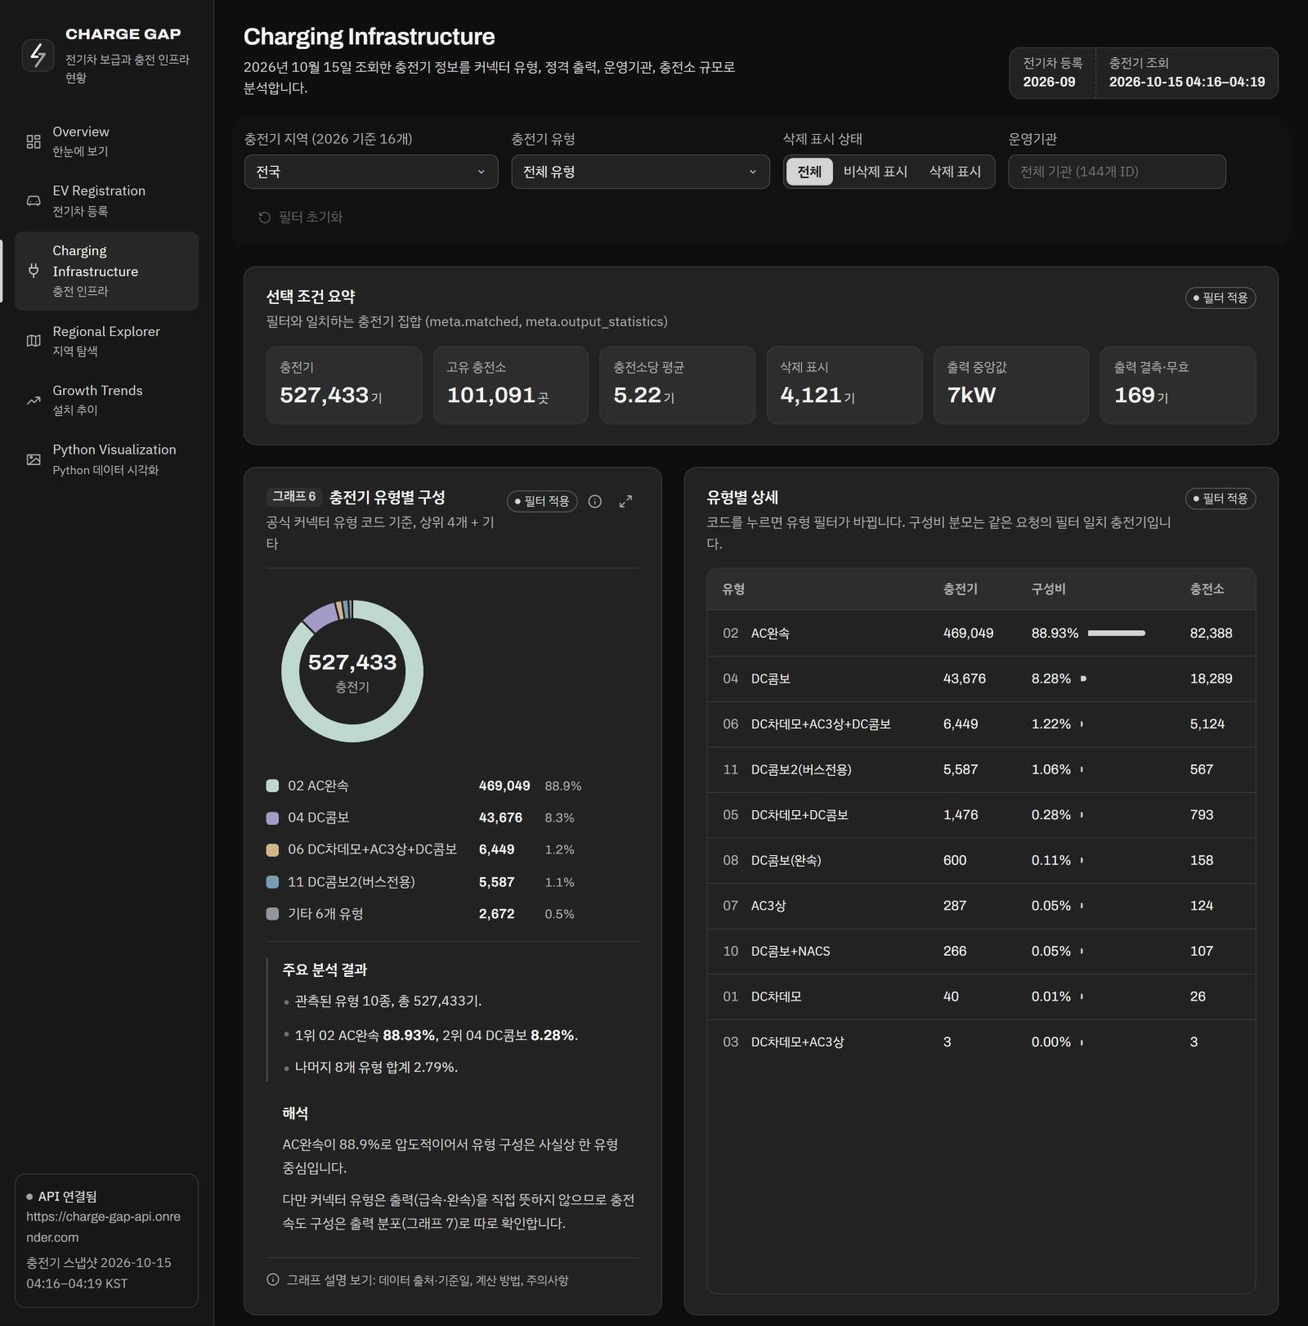
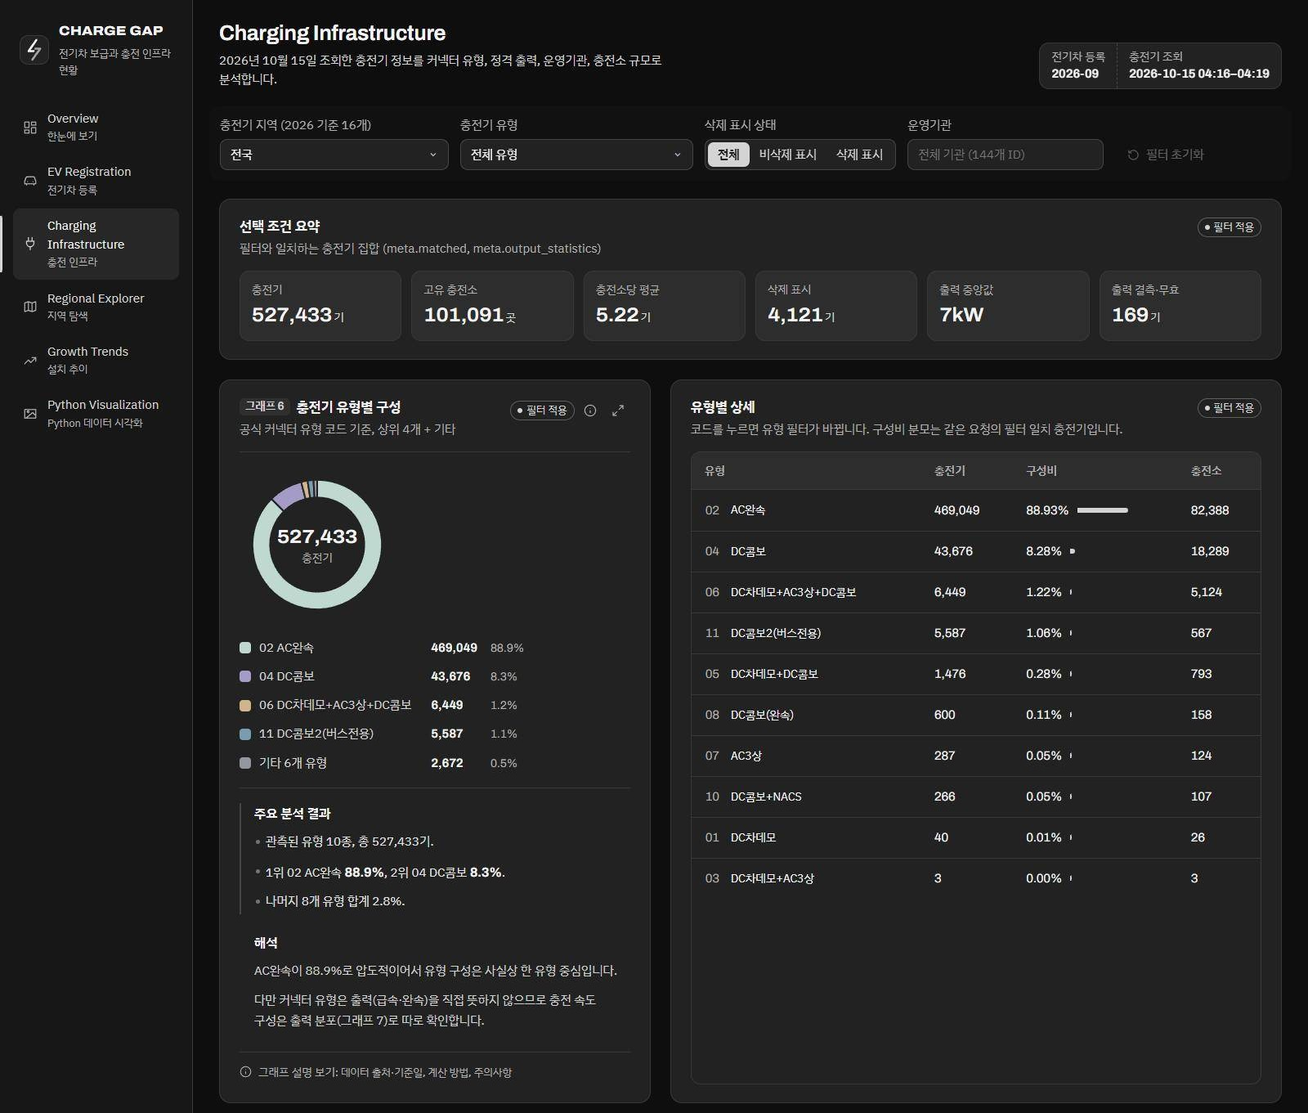
docs: update README and screenshots to the current site
- Restructure top: background, purpose, data collection and
  preprocessing, key visualization findings, dashboard features
- Mark the 164 preprocessing checks as a past record based on the
  2025-12 registration file; note no separate preprocessing record
  exists for the 2026-09 file and list the checks that cover it
- Add verification summary (164 / 47 / 13 / 170 / 321)
- Replace 8 screenshots with 2026-11-26 captures of the live site
  (graph 2 lollipop, graph 6 doughnut, PY01-PY09)

diff --git a/README.md b/README.md
@@ -11,29 +11,47 @@
 > Render 무료 플랜이라 한동안 접속이 없으면 서버가 절전 상태가 됩니다. 첫 접속 때 서버가 데이터를 내려받아 준비하는 동안 몇 분까지 걸릴 수 있으며, 그동안 화면에 대기 안내가 표시되고 준비되면 자동으로 다시 불러옵니다.
 
 <p align="center">
-  <img src="docs/images/overview.jpg" alt="Overview 화면: 전기차 등록 2026-09와 충전기 조회 2026-10-15 기준 시점 띠, 전기차 1,191,873대·충전기 527,433기·충전소 101,091곳·삭제 표시 4,121기 KPI 4개, 고출력 비중 지역 차이와 충전소당 충전기 수 관계 분석" width="100%">
+  <img src="docs/images/overview.jpg" alt="Overview 화면: 전기차 등록 2026-09와 충전기 조회 2026-10-15 기준 시점 띠, 전기차 1,191,873대·충전기 527,433기·충전소 101,091곳·삭제 표시 4,121기 KPI 4개, 주요 분석 발견(100kW 이상 비중 경북 14.65%·대구 4.69%, 충전소당 충전기 수와 고출력 비중의 관계 r = −0.90)" width="100%">
 </p>
-<p align="center"><sub>Overview · 기준 시점 띠, 핵심 KPI 4개, 주요 분석 발견 (운영 사이트, 2026-11-15 촬영)</sub></p>
+<p align="center"><sub>Overview · 기준 시점 띠, 핵심 KPI 4개, 주요 분석 발견 (운영 사이트, 2026-11-26 촬영)</sub></p>
 
 ## 목차
 
-[프로젝트 소개](#프로젝트-소개) · [핵심 수치와 기준일](#핵심-수치와-기준일) · [화면 둘러보기](#화면-둘러보기) · [주요 분석 기능](#주요-분석-기능) · [웹 그래프와 Python 그래프](#웹-그래프-10개와-python-그래프-10개) · [데이터](#데이터) · [기술 스택](#기술-스택) · [시스템 구조](#시스템-구조) · [실행 방법](#실행-방법) · [검증 결과](#검증-결과) · [배포 상태](#배포-상태) · [문서](#문서)
+[프로젝트 소개](#프로젝트-소개) · [데이터 수집 및 전처리](#데이터-수집-및-전처리) · [핵심 시각화 분석 결과](#핵심-시각화-분석-결과) · [화면 둘러보기](#화면-둘러보기) · [웹 대시보드 주요 기능](#웹-대시보드-주요-기능) · [웹 그래프와 Python 그래프](#웹-그래프-10개와-python-그래프-10개) · [데이터](#데이터) · [기술 스택](#기술-스택) · [시스템 구조](#시스템-구조) · [실행 방법](#실행-방법) · [검증 결과](#검증-결과) · [배포 상태](#배포-상태) · [문서](#문서)
+
+> **읽는 순서**: 선정 배경 → 목적 → 데이터 수집 및 전처리 → 핵심 시각화 분석 결과 → 웹 대시보드 주요 기능 → 기술 스택 → 검증 및 실행 방법
 
 ## 프로젝트 소개
 
-### 해결하려는 문제
+### 선정 배경
 
-전기차 등록 대수와 충전기 수는 각각 공개돼 있지만, **지역별 충전 인프라가 어떻게 구성돼 있는지**(급속 충전 비중, 충전소 규모, 운영기관 집중도 등)는 한눈에 비교하기 어렵습니다. CHARGE GAP은 공급 측 자료만으로 계산할 수 있는 구성 지표를 전국 기준값과 함께 보여 줍니다.
+전기차 등록 대수와 충전기 수는 각각 공개돼 있지만, **지역별 충전 인프라가 어떻게 구성돼 있는지**(급속 충전 비중, 충전소 규모, 운영기관 집중도 등)는 한눈에 비교하기 어렵습니다. 또 전기차 등록 통계(2026년 9월 말)와 충전기 정보(2026-10-15 조회)는 기준 시점이 달라, 두 수치를 단순히 나누면 실제와 다른 "부족률"이 만들어질 수 있습니다.
+
+### 목적
+
+- 16개 시도의 전기차 보급 현황과 충전 인프라 **구성 차이**(유형·출력·충전소 규모·운영기관·삭제 표시)를 같은 화면에서 비교합니다.
+- 서로 다른 기준 시점의 자료를 섞지 않고, 각 자료 안에서 계산할 수 있는 지표만 전국 기준값과 비교합니다.
+- 웹 대시보드(필터·지도·데이터 표·CSV·PDF)와 Python 그래프(Matplotlib·Seaborn)로 같은 분석을 두 번 구현해 수치가 일치하는지 검증합니다.
 
 ### 원칙과 차별점
 
 - **기준 시점이 다른 자료를 서로 나누지 않습니다.** 전기차 등록(2026-09)과 충전기(2026-10-15)는 기준 시점이 달라, 두 수치로 충전 부족률·수요 충족률·전기차 1대당 충전기 수 같은 지표를 만들지 않습니다. 화면 상단의 기준 시점 띠에도 이 원칙을 표시합니다.
 - **공급 측 구성 지표 5개를 전국 기준값과 비교합니다.** 100kW 이상 비중, 충전소당 평균 충전기, 유형별 구성, 운영기관 집중도(HHI), 삭제 표시 비중을 16개 지역별로 계산하고, 전국 기준값은 지역 비율의 평균이 아니라 전국 분자·분모를 합산해 구합니다.
 - **원본 자료의 한계를 화면과 문서에 드러냅니다.** 운영기관은 원본의 운영기관 ID(`busiId`) 기준으로 묶고, 같은 ID가 같은 법인이라는 뜻은 아니라는 점을 함께 밝힙니다. 좌표 품질이 의심되는 충전소 644곳은 지도에서 고르면 안내가 나옵니다.
-- **웹 그래프 10개를 Python으로 1:1 다시 구현해 수치를 대조했습니다.** 같은 그래프 종류·자료·집계 기준으로 Matplotlib·Seaborn PNG 10개를 만들고, 웹 API 값과 46개 항목, 웹 화면과 13개 항목을 대조했습니다.
+- **웹 그래프 10개를 Python으로 1:1 다시 구현해 수치를 대조했습니다.** 같은 그래프 종류·자료·집계 기준으로 Matplotlib·Seaborn PNG 10개를 만들고, 웹 API 값과 47개 항목, 웹 화면과 13개 항목을 대조했습니다.
 - **지도는 줌에 따라 3단계로 표시합니다.** 시도 집계 → 화면 영역 격자 묶음 → 개별 충전소 순으로 바뀌며, 표시 수치는 서버 집계와 같습니다.
 
-## 핵심 수치와 기준일
+## 데이터 수집 및 전처리
+
+| 단계 | 내용 |
+|---|---|
+| 수집 | 국토교통부 통계누리 자동차 등록자료 통계(연료별 등록현황), 한국환경공단 「전기자동차 충전소 정보」 API `getChargerInfo` 전체 조회, 무공해차 통합누리집 「충전기 설치 성장 추세」 표 (출처·이용 조건: [데이터](#데이터)) |
+| 지역 정리 | 2026년 16개 시도 체계로 맞추고, 전남광주통합특별시(코드 12)를 과거 광주·전남으로 나누지 않습니다 |
+| 충전기 정리 | 충전기 키 중복·누락 확인, 삭제 표시(4,121기)와 비삭제 표시(523,312기) 구분, 공식 커넥터 유형 코드, 출력 구간, 운영기관 ID(`busiId`) 기준 집계 |
+| 품질 점검 | 좌표 품질 의심 충전소 644곳 판정([근거](reports/coordinate_quality_2026-11-13.md)), 설치 추이 연도 중복·누적 합 대조 |
+| 전처리 검증 | **164개 항목 통과 (과거 기록)**: 원본 대조·집계 재계산 100개([`dataset_preparation_verification.json`](reports/dataset_preparation_verification.json)) + 저장 파일 점검 64개([`dataset_preparation_saved_file_checks.json`](reports/dataset_preparation_saved_file_checks.json)). **기준 자료**: 전기차 등록은 **2025년 12월 등록 원본(899,101대, 17개 시도)**, 충전기는 현재와 같은 2026-10-15 조회 자료(527,433기), 설치 추이는 현재와 같은 2011–2026 표(누적 540,210기)입니다. **현재 사용하는 2026년 9월 등록 자료(1,191,873대)는 이 164개 점검의 대상이 아니며**, 2026년 9월 원본 파일과 정리 CSV를 대조한 별도 전처리 검증 기록은 저장소에 없습니다. 2026년 9월 자료는 아래 [검증 요약](#검증-요약)의 백엔드 테스트(정리 CSV ↔ API)와 Python·웹 대조로만 확인했습니다 |
+
+### 핵심 수치와 기준일
 
 | 항목 | 규모 | 기준일 · 범위 |
 |---|---|---|
@@ -45,14 +63,28 @@
 
 > **두 자료의 기준일이 다릅니다.** 전기차 등록은 2026년 9월 말, 충전 인프라는 2026-10-15 조회 자료입니다. 16개 지역은 서로 대응하지만 같은 시점의 값이 아니므로, 이 프로젝트의 지표는 각 자료 안에서만 계산한 **구성 비교**입니다. 실제 충전 인프라 부족률이나 수요 충족률을 계산하지 않았습니다.
 
+## 핵심 시각화 분석 결과
+
+운영 사이트 Overview·그래프 분석 문단에 표시되는 값입니다(기본 필터, 충전기 2026-10-15 조회, 전기차 2026년 9월 말). 모두 **공급 측 구성 비교**이며 충전 수요나 부족률을 뜻하지 않습니다.
+
+| 주제 | 결과 |
+|---|---|
+| 전기차 등록 (그래프 1) | 경기 280,251대(전국의 23.5%)가 1위, 세종 10,062대가 최하위. 수도권 3개 지역이 43.0% |
+| 충전기 유형 (그래프 6) | 02 AC완속 88.9%, 04 DC콤보 8.3%. 관측된 유형 10종 |
+| 충전소와 충전기 (그래프 4) | 충전기 수 = −6,783 + 6.291 × 충전소 수, R² 0.972. 충전소당 충전기는 인천 6.42기 \~ 제주 2.73기 (전국 5.22기) |
+| 고출력 비중 | 100kW 이상 비중 전국 8.04%, 경북 14.65% \~ 대구 4.69% (9.96%p 차이). 충전기가 가장 많은 경기는 7.02%로 10위 |
+| 충전소 규모와 고출력 | 16개 지역에서 충전소당 충전기 수와 100kW 이상 비중의 피어슨 r = −0.90 (지역 집계값의 상관이며 원인을 뜻하지 않음) |
+| 운영기관 집중도 | HHI 전국 810.9점, 세종 1,858.0점 \~ 경북 635.9점 |
+| 설치 추이 (그래프 9) | 2025년 말 누적 478,802기, 연간 설치 최댓값 2023년 111,981기. 2026년(부분 연도) 누적 540,210기 |
+
 ## 화면 둘러보기
 
-6개 페이지 모두 운영 사이트에서 기본 필터 상태로 촬영했습니다.
+6개 페이지 모두 운영 사이트에서 기본 필터 상태로 촬영했습니다(2026-11-26).
 
 <table>
   <tr>
-    <td width="50%" valign="top"><img src="docs/images/ev-registration.jpg" alt="EV Registration 화면: 전국 등록 요약(등록 합계 1,191,873대, 승용·화물·승합·특수·사업용), 그래프 1 지역별 전기차 등록 대수 막대, 그래프 2 차종별 등록 구성 도넛, 지역 체계 안내" width="100%"></td>
-    <td width="50%" valign="top"><img src="docs/images/charging-infrastructure.jpg" alt="Charging Infrastructure 화면: 선택 조건 요약(충전기 527,433기, 충전소 101,091곳, 충전소당 5.22기, 삭제 표시 4,121기, 출력 중앙값 7kW), 그래프 6 충전기 유형별 구성 도넛과 유형별 상세 표" width="100%"></td>
+    <td width="50%" valign="top"><img src="docs/images/ev-registration.jpg" alt="EV Registration 화면: 전국 등록 요약(등록 합계 1,191,873대, 승용·화물·승합·특수·사업용), 그래프 1 지역별 전기차 등록 대수 막대, 그래프 2 차종별 등록 구성 가로 롤리팝(승용 969,627대·81.4%, 화물 17.0%, 승합 1.5%, 특수 0.1%), 지역 체계 안내" width="100%"></td>
+    <td width="50%" valign="top"><img src="docs/images/charging-infrastructure.jpg" alt="Charging Infrastructure 화면: 선택 조건 요약(충전기 527,433기, 충전소 101,091곳, 충전소당 5.22기, 삭제 표시 4,121기, 출력 중앙값 7kW), 그래프 6 충전기 유형별 구성 도넛(02 AC완속 88.9%, 04 DC콤보 8.3%)과 분석 결과, 유형별 상세 표" width="100%"></td>
   </tr>
   <tr>
     <td align="center"><b>EV Registration</b> · 지역별 등록 대수와 차종 구성</td>
@@ -68,7 +100,7 @@
   </tr>
   <tr>
     <td width="50%" valign="top"><img src="docs/images/growth-trends.jpg" alt="Growth Trends 화면: 2011–2026년 요약(연간 최댓값 111,981기 2023년, 누적 540,210기, 2026년 부분 연도 61,408기), 연간 설치 막대와 그래프 9 누적 설치 추이" width="100%"></td>
-    <td width="50%" valign="top"><img src="docs/images/python-visualization.jpg" alt="Python Visualization 화면: 고정 PNG·필터 무관 표시, PY01~PY06 카드(그래프 썸네일, 기법, 라이브러리, 기준일, 삭제 기준)" width="100%"></td>
+    <td width="50%" valign="top"><img src="docs/images/python-visualization.jpg" alt="Python Visualization 화면: 고정 PNG·필터 무관 표시, PY01~PY09 카드(PY02 가로 롤리팝, PY06 도넛 포함, 그래프 썸네일, 기법, 라이브러리, 기준일, 삭제 기준)" width="100%"></td>
   </tr>
   <tr>
     <td align="center"><b>Growth Trends</b> · 연간·누적 설치 추이 (2026년 부분 연도)</td>
@@ -76,7 +108,7 @@
   </tr>
 </table>
 
-<sub>2026-11-15 운영 사이트 <a href="https://charge-gap.onrender.com">charge-gap.onrender.com</a>(프런트엔드 커밋 <code>133feb3</code>, API <code>9bbef7a</code> 배포본)에서 촬영했습니다. Claude 데스크톱 앱 내장 브라우저를 1440×900 화면으로 설정하고, 데이터·그래프·지도가 모두 불러와진 것(로딩·오류 표시 없음)을 확인한 뒤, 글자가 흐려지지 않도록 화면을 2배로 확대해 나눠 찍고 이어 붙였습니다(이미지 폭 1,600px = 화면 폭 1,440px). 긴 화면을 한 장에 담기 위해 촬영하는 동안만 왼쪽 메뉴 높이를 이미지 높이에 맞췄으며, 데이터·그래프·배치는 바꾸지 않았습니다. 구성 격차 이미지는 Regional Explorer 페이지의 해당 구역만 잘랐습니다. 지도의 카카오 로고·축척 표시는 그대로 두었습니다.</sub>
+<sub>2026-11-26 운영 사이트 <a href="https://charge-gap.onrender.com">charge-gap.onrender.com</a>에서 촬영했습니다(그래프 2 가로 롤리팝과 PY02 롤리팝 PNG가 반영된 배포본). Claude 데스크톱 앱 내장 브라우저를 폭 1,600px 화면으로 설정하고, 데이터·그래프·지도가 모두 불러와진 것(로딩·오류 표시 없음)을 확인한 뒤, 글자가 흐려지지 않도록 화면을 2배로 확대해 나눠 찍고 이어 붙였습니다(이미지 1px = 화면 1px). 촬영 창이 백그라운드 상태라 그래프 등장 애니메이션·서서히 나타나기 효과가 멈추는 문제가 있어, 촬영하는 동안만 애니메이션 타이머를 일반 타이머로 대신하고 나타나기 효과를 끝난 상태로 두었습니다. 사이트의 데이터·그래프·배치·문구는 바꾸지 않았습니다. 각 이미지는 카드 경계에서 잘랐으며, 구성 격차 이미지와 웹 그래프 08 이미지는 Regional Explorer 페이지의 해당 구역만 잘랐습니다. 지도의 카카오 로고·축척 표시는 그대로 두었습니다.</sub>
 
 ### 6개 페이지
 
@@ -89,7 +121,7 @@
 | **Growth Trends** | `/growth-trends` | 연간 설치 막대, 누적 설치 추이, 연도 구간 선택(빠른 선택 포함), 연도별 표 | 2011년 이후 설치 추이(2026년은 부분 연도) |
 | **Python Visualization** | `/python-visualization` | 웹 그래프 1\~10을 Matplotlib·Seaborn으로 다시 구현한 고정 PNG 10개 갤러리와 확대 보기(출처·기준일·지역 체계·삭제 기준·기법·라이브러리·사용 함수·웹 기본 필터, 분석 목적·결과, 해석 주의) | 웹 그래프와 같은 그래프 종류·자료·집계 기준을 Python으로 재현·검증 |
 
-## 주요 분석 기능
+## 웹 대시보드 주요 기능
 
 - **필터와 URL 공유**: 충전기 지역·유형·삭제 표시 상태·운영기관과 등록 지역 필터를 URL 쿼리로 저장합니다. 페이지를 옮겨도 공통 필터가 유지되며, 잘못된 값은 무시하고 주소에서도 지웁니다.
 - **지도 기반 충전소 탐색 (카카오맵)**: 줌 11 미만에서는 시도별 충전소 수를 원으로, 줌 11\~15에서는 화면 영역(bbox) 안의 **모든** 충전소를 서버가 격자로 집계한 묶음(`/api/locations/grid`)을, 줌 16 이상에서는 개별 충전소(`/api/locations`, 1,000곳 단위·3페이지까지 자동)를 표시합니다. 충전소를 누르면 지도 정보창과 오른쪽 분석 패널에 같은 수치(일치 충전기·비삭제·삭제 표시)가 나타납니다. 표시는 지도 위 캔버스 한 장에 그려 많은 충전소도 가볍게 움직입니다. 원본 좌표 품질이 의심되는 충전소를 고르면 정보창과 패널에 안내 한 줄이 함께 나옵니다(점 위치·색은 그대로).
@@ -107,6 +139,9 @@
 
 - **내보내기**: 현재 지표·필터의 16개 지역 표를 **CSV**(UTF-8 BOM, Excel 한글 호환)로 저장하고, A4 3페이지 **PDF 보고서**(핵심 요약 · 16개 지역 비교 · 계산 방법·주의사항·출처)를 브라우저 인쇄로 저장합니다.
 - **그래프별 분석 문단**: 주요 그래프마다 분석 목적·그래프 선택 이유·주요 결과·해석·주의사항을 실제 API 응답으로 계산해 표시합니다. 그래프는 확대 보기와 데이터 표를 지원합니다.
+- **웹 그래프 10개**: 그래프 2 차종별 등록 구성은 **가로 롤리팝**, 그래프 6 충전기 유형별 구성은 **도넛**(상위 4개 + 기타)으로 그리며, 두 그래프의 분석 문단 비율은 소수점 첫째 자리로 표시합니다. 전체 목록은 [아래 표](#웹-그래프-10개와-python-그래프-10개)에 있습니다.
+- **데이터 표**: 지역별 등록 표, 충전기 유형별 상세 표, 운영기관 목록, 16개 지역 표, 충전소 목록, 연도별 설치 표로 그래프의 수치를 그대로 확인할 수 있습니다.
+- **Python 그래프 페이지와 Python–웹 검증**: 웹 그래프 1\~10을 Python으로 다시 그린 고정 PNG 10개를 Python Visualization 페이지와 그래프 확대 보기의 Python 탭에서 보여 주고, 웹 API 값(47개 항목)·웹 화면(13개 항목)과 대조했습니다([검증 결과](#검증-결과)).
 
 ## 웹 그래프 10개와 Python 그래프 10개
 
@@ -136,7 +171,7 @@
 
 <table>
   <tr>
-    <td width="50%" valign="top"><img src="docs/images/web-graph-08.jpg" alt="웹 그래프 8 지역별 충전기 출력 구간 구성: 다크 테마 행 기준 비율 히트맵, 16개 지역 × 6개 출력 구간, 경기 30kW 미만 91%, 제주 50–100kW 13%" width="100%"></td>
+    <td width="50%" valign="top"><img src="docs/images/web-graph-08.jpg" alt="웹 그래프 8 지역별 충전기 출력 구간 구성: 다크 테마 행 기준 비율 히트맵, 16개 지역 × 6개 출력 구간, 경기 30kW 미만 91%, 제주 50–100kW 13%, 아래에 주요 분석 결과와 해석" width="100%"></td>
     <td width="50%" valign="top"><img src="frontend/public/python-charts-web/08_regional_output_heatmap.png" alt="Python PY08 지역별 충전기 출력 구간 구성: 흰 배경 Seaborn 히트맵, 같은 16개 지역 순서와 6개 구간, 같은 칸 값" width="100%"></td>
   </tr>
   <tr>
@@ -165,7 +200,7 @@
 
 - 생성: `scripts/create_web_matched_charts_2026.py` → `outputs/charts_web_matched_2026/` (PNG 10개, `metrics.json`, 검증 결과, 웹·Python 비교 이미지 `comparison/`)
 - 페이지 반영: `scripts/build_python_charts_web_page.py`가 PNG를 바이트 그대로 `frontend/public/python-charts-web/`에 복사하고 `metrics.json`으로 표시용 `charts.json`을 만듭니다.
-- 검증: `scripts/verify_web_matched_charts_2026.py`가 웹 코드와 같은 계산 규칙으로 API 값을 다시 계산해 대조합니다(46개). 로컬 웹 화면 글자·트리맵 칸 배치 대조 13개는 `outputs/charts_web_matched_2026/verification_screen.json`에 있습니다.
+- 검증: `scripts/verify_web_matched_charts_2026.py`가 웹 코드와 같은 계산 규칙으로 API 값을 다시 계산해 대조합니다(47개). 로컬 웹 화면 글자·트리맵 칸 배치 대조 13개는 `outputs/charts_web_matched_2026/verification_screen.json`에 있습니다.
 - 재현 방법과 고정 라이브러리 환경: [실행 방법 5](#5-python-그래프-재현-고정-환경)
 
 </details>
@@ -378,6 +413,17 @@ sha256sum /tmp/charts_check/*.png
 
 최신 결과는 그래프 2 롤리팝 변경과 그래프 2·6 비율 표기(소수점 첫째 자리) 수정을 반영한 작업본에서 2026-11-25에 로컬로 실행한 것입니다. 그 아래 `133feb3` 표는 이전 기록이며, 다시 실행하지 않은 항목(접근성, `pip-audit`, gitleaks 등)은 그 표에만 있습니다. 더 이전 날짜의 기록은 [검증·배포 이력](docs/VERIFICATION_HISTORY.md)에 원문 그대로 있습니다.
 
+### 검증 요약
+
+| 구분 | 결과 | 근거 |
+|---|---|---|
+| 데이터 전처리 점검 (과거 기록) | **164개 통과** (원본 대조·집계 재계산 100 + 저장 파일 점검 64) | `reports/dataset_preparation_*.json`, 2026-11-05 커밋 기록. 전기차는 **2025년 12월 등록 원본(899,101대)** 기준, 충전기·설치 추이는 현재와 같은 자료. **2026년 9월 등록 자료는 대상 아님**, 이번에 다시 실행하지 않음 |
+| 2026년 9월 등록 자료 확인 | 별도 전처리 검증 기록 **없음** | 대신 백엔드 테스트 `backend/tests/test_ev_2026_09.py` 21개(정리 CSV `ev_registration_by_region_2026_09.csv`의 16개 지역 × 7개 지표가 API 응답과 같은지, 지역 필터 등)가 아래 backend 236개에 포함되어 2026-11-25에 통과했고, Python·웹 대조 47개에 그래프 1~3 등록 수치가 포함됩니다. 원본 통계 파일과 정리 CSV의 대조는 아님 |
+| Python·웹 API 값 대조 | **47/47 일치** | 아래 최신 로컬 테스트 |
+| Python·웹 화면 대조 | **13/13 일치** | 아래 최신 로컬 테스트 |
+| 프론트엔드 테스트 | **170/170 통과** | 아래 최신 로컬 테스트 |
+| 백엔드 + 배포 스크립트 테스트 | **321 passed** (backend 236 · deploy 85) | 아래 최신 로컬 테스트 |
+
 ### 로컬 테스트 (최신, 2026-11-25)
 
 | 대상 | 명령 | 결과 |
@@ -439,7 +485,7 @@ sha256sum /tmp/charts_check/*.png
 
 ## 배포 상태
 
-2026-11-15 기준입니다.
+아래 표는 2026-11-15 배포 기록입니다. 2026-11-26 운영 사이트 확인 때는 그래프 2 가로 롤리팝과 PY02 롤리팝 PNG(`02_ev_vehicle_types_lollipop.png`)가 표시되어, 그 뒤 변경(그래프 2 롤리팝, 그래프 2·6 비율 표기)이 프런트엔드에 반영된 상태였습니다. 이후 배포의 시각·커밋 기록은 Render 배포 기록에서 확인합니다.
 
 | 구분 | 내용 |
 |---|---|
